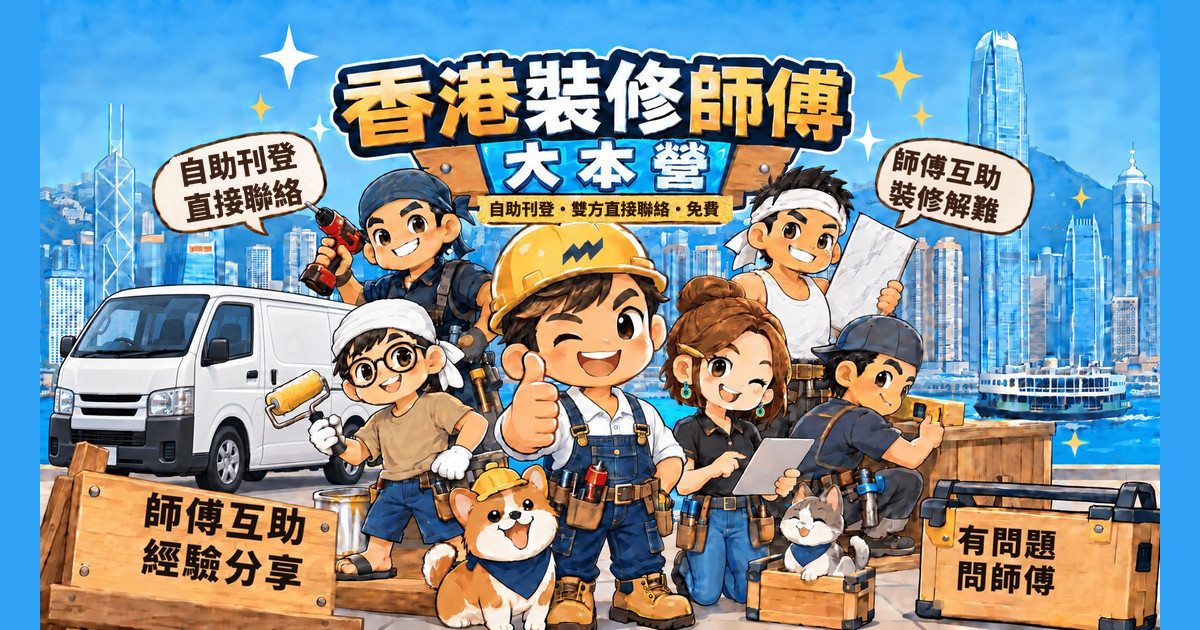
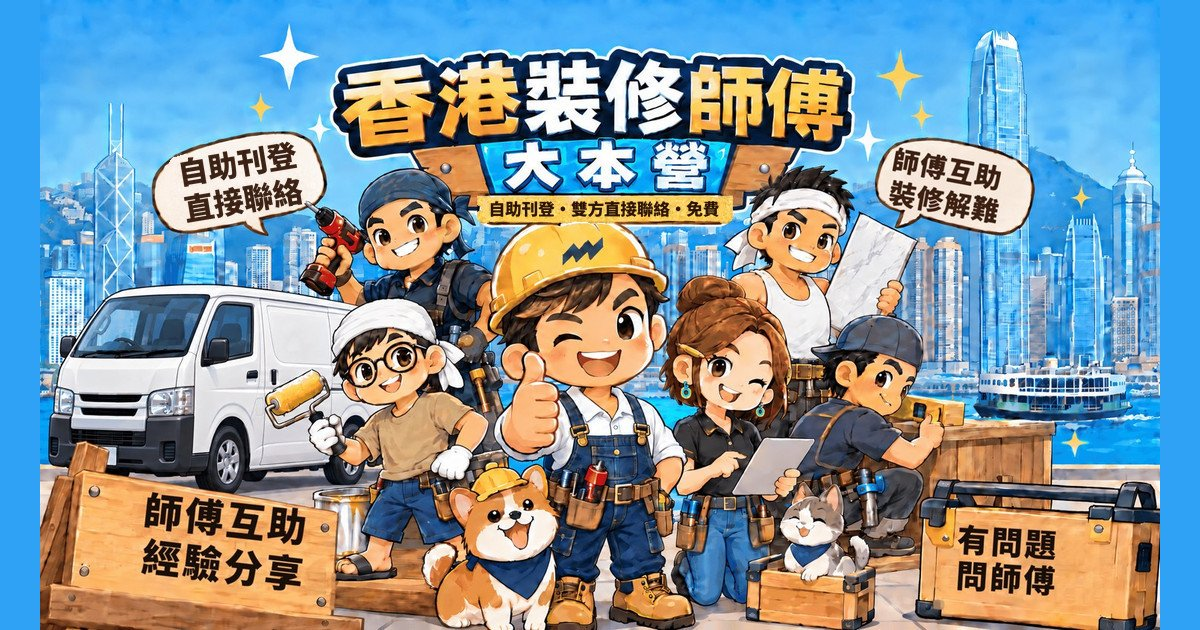
Update Hong Kong brand and WhatsApp groups

diff --git a/index.html b/index.html
@@ -3,8 +3,8 @@
 <head>
   <meta charset="utf-8">
   <meta name="viewport" content="width=device-width, initial-scale=1">
-  <title>搵工請人自助刊登｜裝修師傅互助大本營</title>
-  <meta name="description" content="裝修師傅互助大本營：師傅同判頭自行刊登搵工、請人資訊，雙方直接聯絡。大本營唔代人搵工、唔代人揀人、唔收費。">
+  <title>搵工請人自助刊登｜香港裝修師傅互助大本營</title>
+  <meta name="description" content="香港裝修師傅互助大本營：師傅同判頭自行刊登搵工、請人資訊，雙方直接聯絡。大本營唔代人搵工、唔代人揀人、唔收費。">
   <meta name="theme-color" content="#17345c">
   <link rel="icon" type="image/svg+xml" href="favicon.svg">
   <link rel="apple-touch-icon" href="apple-touch-icon.png">
@@ -12,21 +12,21 @@
   <meta property="og:type" content="website">
   <meta property="og:url" content="https://jobs.renocamp.io/">
   <meta property="og:locale" content="zh_HK">
-  <meta property="og:site_name" content="裝修師傅互助大本營">
-  <meta property="og:title" content="搵工請人自助刊登｜裝修師傅互助大本營">
+  <meta property="og:site_name" content="香港裝修師傅互助大本營">
+  <meta property="og:title" content="搵工請人自助刊登｜香港裝修師傅互助大本營">
   <meta property="og:description" content="師傅同判頭自行刊登搵工、請人資訊，雙方直接聯絡。大本營唔代人搵工、唔代人揀人、唔收費。">
   <meta property="og:image" content="https://jobs.renocamp.io/assets/brand/og.jpg">
   <meta property="og:image:width" content="1200">
   <meta property="og:image:height" content="630">
   <meta name="twitter:card" content="summary_large_image">
-  <meta name="twitter:title" content="搵工請人自助刊登｜裝修師傅互助大本營">
+  <meta name="twitter:title" content="搵工請人自助刊登｜香港裝修師傅互助大本營">
   <meta name="twitter:description" content="師傅同判頭自行刊登搵工、請人資訊，雙方直接聯絡。大本營唔代人搵工、唔代人揀人、唔收費。">
   <meta name="twitter:image" content="https://jobs.renocamp.io/assets/brand/og.jpg">
   <link rel="preconnect" href="https://fonts.googleapis.com">
   <link rel="preconnect" href="https://fonts.gstatic.com" crossorigin>
   <link rel="stylesheet" href="https://fonts.googleapis.com/css2?family=Noto+Sans+HK:wght@400;500;700;900&display=swap">
-  <link rel="preload" as="image" href="assets/thumbs/hero-800.jpg" imagesrcset="assets/thumbs/hero-800.jpg 800w, assets/brand/hero.jpg 1500w" imagesizes="(min-width: 1180px) 1120px, 100vw">
-  <link rel="stylesheet" href="css/style.css?v=20261003b">
+  <link rel="preload" as="image" href="assets/thumbs/hero-800.webp" imagesrcset="assets/thumbs/hero-800.webp 800w, assets/brand/hero.webp 1500w" imagesizes="(min-width: 1180px) 1120px, 100vw">
+  <link rel="stylesheet" href="css/style.css?v=20261005b">
   <script src="js/config.js" defer></script>
   <script src="js/main.js" defer></script>
 </head>
@@ -35,7 +35,7 @@
 <div id="top">
   <header class="site-header">
     <div class="wrap header-row">
-      <a href="#top" class="brand"><img src="assets/thumbs/mark-128.jpg" alt="" width="40" height="40"><span>互助大本營</span></a>
+      <a href="#top" class="brand"><img src="assets/thumbs/mark-128.webp" alt="" width="40" height="40"><span>香港裝修師傅互助大本營</span></a>
       <nav class="nav" aria-label="主選單">
         <a href="#post">刊登</a>
         <a href="#groups">工種</a>
@@ -50,7 +50,7 @@
     <section class="hero">
       <div class="wrap">
         <figure class="hero-fig">
-          <img src="assets/thumbs/hero-800.jpg" srcset="assets/thumbs/hero-800.jpg 800w, assets/brand/hero.jpg 1500w" sizes="(min-width: 1180px) 1120px, 100vw" alt="香港裝修師傅大本營橫幅插圖（AI 生成）" width="1500" height="844" fetchpriority="high">
+          <img src="assets/thumbs/hero-800.webp" srcset="assets/thumbs/hero-800.webp 800w, assets/brand/hero.webp 1500w" sizes="(min-width: 1180px) 1120px, 100vw" alt="香港裝修師傅大本營橫幅插圖（AI 生成）" width="1500" height="844" fetchpriority="high">
         </figure>
         <p class="hero-tag">師傅互助 · 經驗分享 · 有問題問師傅</p>
         <p class="ai-note ai-note--dark">（圖片由 AI 生成，僅作示意）</p>
@@ -59,10 +59,10 @@
 
     <section class="wrap intro-wrap">
       <div class="intro">
-        <img class="intro-avatar" src="assets/thumbs/hub.jpg" srcset="assets/thumbs/hub.jpg 320w, assets/zones/hub.jpg 900w" sizes="176px" alt="裝修師傅互助大本營 WhatsApp 社群頭像" width="176" height="176">
+        <img class="intro-avatar" src="assets/thumbs/hub.webp" srcset="assets/thumbs/hub.webp 320w, assets/zones/hub.jpg 900w" sizes="176px" alt="香港裝修師傅互助大本營 WhatsApp 社群頭像" width="176" height="176">
         <div>
           <p class="display">獅子山精神</p>
-          <h1>裝修師傅互助<br>大本營</h1>
+          <h1>香港裝修師傅<br>互助大本營</h1>
           <p class="intro-kicker">自己刊登 · 直接聯絡 · 唔收費</p>
           <p class="intro-text">師傅自己人嘅交流地方。搵工、請人資訊由你自己刊登，聯絡方法由你自己揀，條件由雙方自己傾。大本營唔代人搵工、唔代人揀人、唔收費。</p>
         </div>
@@ -172,23 +172,23 @@
         <button type="button" class="chip" data-filter="ops" aria-pressed="false">雜工判頭</button>
       </div>
       <ul class="trade-grid" id="trade-grid">
-          <li data-lane="build"><button type="button" class="card trade" data-full="assets/badges/demo.jpg" data-title="清拆" data-caption="清拆、打鑿、清場，開工第一步。" data-round="1"><img src="assets/thumbs/demo.jpg" alt="清拆群組圓章頭像" width="128" height="128" loading="lazy" decoding="async"><span class="trade-name">清拆</span><span class="trade-blurb">清拆、打鑿、清場，開工第一步。</span></button></li>
-          <li data-lane="build"><button type="button" class="card trade" data-full="assets/badges/mason.jpg" data-title="泥水" data-caption="批盪、鋪磚、石屎修補。" data-round="1"><img src="assets/thumbs/mason.jpg" alt="泥水群組圓章頭像" width="128" height="128" loading="lazy" decoding="async"><span class="trade-name">泥水</span><span class="trade-blurb">批盪、鋪磚、石屎修補。</span></button></li>
-          <li data-lane="build"><button type="button" class="card trade" data-full="assets/badges/wood.jpg" data-title="木工" data-caption="木作、板材、現場木工。" data-round="1"><img src="assets/thumbs/wood.jpg" alt="木工群組圓章頭像" width="128" height="128" loading="lazy" decoding="async"><span class="trade-name">木工</span><span class="trade-blurb">木作、板材、現場木工。</span></button></li>
-          <li data-lane="build"><button type="button" class="card trade" data-full="assets/badges/fitout.jpg" data-title="傢俬組裝" data-caption="傢俬組裝同現場安裝。" data-round="1"><img src="assets/thumbs/fitout.jpg" alt="傢俬組裝群組圓章頭像" width="128" height="128" loading="lazy" decoding="async"><span class="trade-name">傢俬組裝</span><span class="trade-blurb">傢俬組裝同現場安裝。</span></button></li>
-          <li data-lane="finish"><button type="button" class="card trade" data-full="assets/badges/floor.jpg" data-title="木地板" data-caption="木地板鋪設同翻新。" data-round="1"><img src="assets/thumbs/floor.jpg" alt="木地板群組圓章頭像" width="128" height="128" loading="lazy" decoding="async"><span class="trade-name">木地板</span><span class="trade-blurb">木地板鋪設同翻新。</span></button></li>
-          <li data-lane="finish"><button type="button" class="card trade" data-full="assets/badges/marble.jpg" data-title="雲石" data-caption="雲石、石材加工同安裝。" data-round="1"><img src="assets/thumbs/marble.jpg" alt="雲石群組圓章頭像" width="128" height="128" loading="lazy" decoding="async"><span class="trade-name">雲石</span><span class="trade-blurb">雲石、石材加工同安裝。</span></button></li>
-          <li data-lane="finish"><button type="button" class="card trade" data-full="assets/badges/paint.jpg" data-title="油漆" data-caption="牆身、油漆、翻新。" data-round="1"><img src="assets/thumbs/paint.jpg" alt="油漆群組圓章頭像" width="128" height="128" loading="lazy" decoding="async"><span class="trade-name">油漆</span><span class="trade-blurb">牆身、油漆、翻新。</span></button></li>
-          <li data-lane="finish"><button type="button" class="card trade" data-full="assets/badges/glass.jpg" data-title="玻璃" data-caption="玻璃、鏡、浴屏。" data-round="1"><img src="assets/thumbs/glass.jpg" alt="玻璃群組圓章頭像" width="128" height="128" loading="lazy" decoding="async"><span class="trade-name">玻璃</span><span class="trade-blurb">玻璃、鏡、浴屏。</span></button></li>
-          <li data-lane="mep"><button type="button" class="card trade" data-full="assets/badges/elec.jpg" data-title="電工" data-caption="電力、燈位工程（固定電力裝置嘅電力工作須由相應級別註冊電業工程人員進行）。" data-round="1"><img src="assets/thumbs/elec.jpg" alt="電工群組圓章頭像" width="128" height="128" loading="lazy" decoding="async"><span class="trade-name">電工</span><span class="trade-blurb">電力、燈位工程（固定電力裝置嘅電力工作須由相應級別註冊電業工程人員進行）。</span></button></li>
-          <li data-lane="mep"><button type="button" class="card trade" data-full="assets/badges/plumb.jpg" data-title="水喉" data-caption="水喉、去水、潔具接駁（指定水喉工程須由持牌水喉匠或其他合資格人士進行）。" data-round="1"><img src="assets/thumbs/plumb.jpg" alt="水喉群組圓章頭像" width="128" height="128" loading="lazy" decoding="async"><span class="trade-name">水喉</span><span class="trade-blurb">水喉、去水、潔具接駁（指定水喉工程須由持牌水喉匠或其他合資格人士進行）。</span></button></li>
-          <li data-lane="mep"><button type="button" class="card trade" data-full="assets/badges/ac.jpg" data-title="冷氣" data-caption="冷氣安裝同維修（安裝冷氣機支架可能屬小型工程，須由合資格人士進行）。" data-round="1"><img src="assets/thumbs/ac.jpg" alt="冷氣群組圓章頭像" width="128" height="128" loading="lazy" decoding="async"><span class="trade-name">冷氣</span><span class="trade-blurb">冷氣安裝同維修（安裝冷氣機支架可能屬小型工程，須由合資格人士進行）。</span></button></li>
-          <li data-lane="mep"><button type="button" class="card trade" data-full="assets/badges/window.jpg" data-title="鋁窗" data-caption="鋁窗、窗框工程（更換窗戶一般屬小型工程，須由註冊小型工程承建商進行）。" data-round="1"><img src="assets/thumbs/window.jpg" alt="鋁窗群組圓章頭像" width="128" height="128" loading="lazy" decoding="async"><span class="trade-name">鋁窗</span><span class="trade-blurb">鋁窗、窗框工程（更換窗戶一般屬小型工程，須由註冊小型工程承建商進行）。</span></button></li>
-          <li data-lane="ops"><button type="button" class="card trade" data-full="assets/badges/labour.jpg" data-title="雜工" data-caption="雜工、搬運同現場幫手。" data-round="1"><img src="assets/thumbs/labour.jpg" alt="雜工群組圓章頭像" width="128" height="128" loading="lazy" decoding="async"><span class="trade-name">雜工</span><span class="trade-blurb">雜工、搬運同現場幫手。</span></button></li>
-          <li data-lane="ops"><button type="button" class="card trade" data-full="assets/badges/transport.jpg" data-title="搬運" data-caption="材料同垃圾運輸。" data-round="1"><img src="assets/thumbs/transport.jpg" alt="搬運群組圓章頭像" width="128" height="128" loading="lazy" decoding="async"><span class="trade-name">搬運</span><span class="trade-blurb">材料同垃圾運輸。</span></button></li>
-          <li data-lane="ops"><button type="button" class="card trade" data-full="assets/badges/clean.jpg" data-title="清潔" data-caption="完工清潔、入伙前大掃除。" data-round="1"><img src="assets/thumbs/clean.jpg" alt="清潔群組圓章頭像" width="128" height="128" loading="lazy" decoding="async"><span class="trade-name">清潔</span><span class="trade-blurb">完工清潔、入伙前大掃除。</span></button></li>
-          <li data-lane="ops"><button type="button" class="card trade" data-full="assets/badges/home.jpg" data-title="家居維修" data-caption="家居小型維修（涉及電力、水喉或小型工程，須由合資格人士進行）。" data-round="1"><img src="assets/thumbs/home.jpg" alt="家居維修群組圓章頭像" width="128" height="128" loading="lazy" decoding="async"><span class="trade-name">家居維修</span><span class="trade-blurb">家居小型維修（涉及電力、水喉或小型工程，須由合資格人士進行）。</span></button></li>
-          <li data-lane="ops"><button type="button" class="card trade" data-full="assets/badges/foreman.jpg" data-title="判頭" data-caption="判頭交流、行內資訊。" data-round="1"><img src="assets/thumbs/foreman.jpg" alt="判頭群組圓章頭像" width="128" height="128" loading="lazy" decoding="async"><span class="trade-name">判頭</span><span class="trade-blurb">判頭交流、行內資訊。</span></button></li>
+          <li data-lane="build"><button type="button" class="card trade" data-full="assets/badges/demo.webp" data-title="清拆" data-caption="清拆、打鑿、清場，開工第一步。" data-round="1"><img src="assets/thumbs/demo.webp" alt="清拆群組圓章頭像" width="128" height="128" loading="lazy" decoding="async"><span class="trade-name">清拆</span><span class="trade-blurb">清拆、打鑿、清場，開工第一步。</span></button></li>
+          <li data-lane="build"><button type="button" class="card trade" data-full="assets/badges/mason.webp" data-title="泥水" data-caption="批盪、鋪磚、石屎修補。" data-round="1"><img src="assets/thumbs/mason.webp" alt="泥水群組圓章頭像" width="128" height="128" loading="lazy" decoding="async"><span class="trade-name">泥水</span><span class="trade-blurb">批盪、鋪磚、石屎修補。</span></button></li>
+          <li data-lane="build"><button type="button" class="card trade" data-full="assets/badges/wood.webp" data-title="木工" data-caption="木作、板材、現場木工。" data-round="1"><img src="assets/thumbs/wood.webp" alt="木工群組圓章頭像" width="128" height="128" loading="lazy" decoding="async"><span class="trade-name">木工</span><span class="trade-blurb">木作、板材、現場木工。</span></button></li>
+          <li data-lane="build"><button type="button" class="card trade" data-full="assets/badges/fitout.webp" data-title="傢俬組裝" data-caption="傢俬組裝同現場安裝。" data-round="1"><img src="assets/thumbs/fitout.webp" alt="傢俬組裝群組圓章頭像" width="128" height="128" loading="lazy" decoding="async"><span class="trade-name">傢俬組裝</span><span class="trade-blurb">傢俬組裝同現場安裝。</span></button></li>
+          <li data-lane="finish"><button type="button" class="card trade" data-full="assets/badges/floor.webp" data-title="木地板" data-caption="木地板鋪設同翻新。" data-round="1"><img src="assets/thumbs/floor.webp" alt="木地板群組圓章頭像" width="128" height="128" loading="lazy" decoding="async"><span class="trade-name">木地板</span><span class="trade-blurb">木地板鋪設同翻新。</span></button></li>
+          <li data-lane="finish"><button type="button" class="card trade" data-full="assets/badges/marble.webp" data-title="雲石" data-caption="雲石、石材加工同安裝。" data-round="1"><img src="assets/thumbs/marble.webp" alt="雲石群組圓章頭像" width="128" height="128" loading="lazy" decoding="async"><span class="trade-name">雲石</span><span class="trade-blurb">雲石、石材加工同安裝。</span></button></li>
+          <li data-lane="finish"><button type="button" class="card trade" data-full="assets/badges/paint.webp" data-title="油漆" data-caption="牆身、油漆、翻新。" data-round="1"><img src="assets/thumbs/paint.webp" alt="油漆群組圓章頭像" width="128" height="128" loading="lazy" decoding="async"><span class="trade-name">油漆</span><span class="trade-blurb">牆身、油漆、翻新。</span></button></li>
+          <li data-lane="finish"><button type="button" class="card trade" data-full="assets/badges/glass.webp" data-title="玻璃" data-caption="玻璃、鏡、浴屏。" data-round="1"><img src="assets/thumbs/glass.webp" alt="玻璃群組圓章頭像" width="128" height="128" loading="lazy" decoding="async"><span class="trade-name">玻璃</span><span class="trade-blurb">玻璃、鏡、浴屏。</span></button></li>
+          <li data-lane="mep"><button type="button" class="card trade" data-full="assets/badges/elec.webp" data-title="電工" data-caption="電力、燈位工程（固定電力裝置嘅電力工作須由相應級別註冊電業工程人員進行）。" data-round="1"><img src="assets/thumbs/elec.webp" alt="電工群組圓章頭像" width="128" height="128" loading="lazy" decoding="async"><span class="trade-name">電工</span><span class="trade-blurb">電力、燈位工程（固定電力裝置嘅電力工作須由相應級別註冊電業工程人員進行）。</span></button></li>
+          <li data-lane="mep"><button type="button" class="card trade" data-full="assets/badges/plumb.webp" data-title="水喉" data-caption="水喉、去水、潔具接駁（指定水喉工程須由持牌水喉匠或其他合資格人士進行）。" data-round="1"><img src="assets/thumbs/plumb.webp" alt="水喉群組圓章頭像" width="128" height="128" loading="lazy" decoding="async"><span class="trade-name">水喉</span><span class="trade-blurb">水喉、去水、潔具接駁（指定水喉工程須由持牌水喉匠或其他合資格人士進行）。</span></button></li>
+          <li data-lane="mep"><button type="button" class="card trade" data-full="assets/badges/ac.webp" data-title="冷氣" data-caption="冷氣安裝同維修（安裝冷氣機支架可能屬小型工程，須由合資格人士進行）。" data-round="1"><img src="assets/thumbs/ac.webp" alt="冷氣群組圓章頭像" width="128" height="128" loading="lazy" decoding="async"><span class="trade-name">冷氣</span><span class="trade-blurb">冷氣安裝同維修（安裝冷氣機支架可能屬小型工程，須由合資格人士進行）。</span></button></li>
+          <li data-lane="mep"><button type="button" class="card trade" data-full="assets/badges/window.webp" data-title="鋁窗" data-caption="鋁窗、窗框工程（更換窗戶一般屬小型工程，須由註冊小型工程承建商進行）。" data-round="1"><img src="assets/thumbs/window.webp" alt="鋁窗群組圓章頭像" width="128" height="128" loading="lazy" decoding="async"><span class="trade-name">鋁窗</span><span class="trade-blurb">鋁窗、窗框工程（更換窗戶一般屬小型工程，須由註冊小型工程承建商進行）。</span></button></li>
+          <li data-lane="ops"><button type="button" class="card trade" data-full="assets/badges/labour.webp" data-title="雜工" data-caption="雜工、搬運同現場幫手。" data-round="1"><img src="assets/thumbs/labour.webp" alt="雜工群組圓章頭像" width="128" height="128" loading="lazy" decoding="async"><span class="trade-name">雜工</span><span class="trade-blurb">雜工、搬運同現場幫手。</span></button></li>
+          <li data-lane="ops"><button type="button" class="card trade" data-full="assets/badges/transport.webp" data-title="搬運" data-caption="材料同垃圾運輸。" data-round="1"><img src="assets/thumbs/transport.webp" alt="搬運群組圓章頭像" width="128" height="128" loading="lazy" decoding="async"><span class="trade-name">搬運</span><span class="trade-blurb">材料同垃圾運輸。</span></button></li>
+          <li data-lane="ops"><button type="button" class="card trade" data-full="assets/badges/clean.webp" data-title="清潔" data-caption="完工清潔、入伙前大掃除。" data-round="1"><img src="assets/thumbs/clean.webp" alt="清潔群組圓章頭像" width="128" height="128" loading="lazy" decoding="async"><span class="trade-name">清潔</span><span class="trade-blurb">完工清潔、入伙前大掃除。</span></button></li>
+          <li data-lane="ops"><button type="button" class="card trade" data-full="assets/badges/home.webp" data-title="家居維修" data-caption="家居小型維修（涉及電力、水喉或小型工程，須由合資格人士進行）。" data-round="1"><img src="assets/thumbs/home.webp" alt="家居維修群組圓章頭像" width="128" height="128" loading="lazy" decoding="async"><span class="trade-name">家居維修</span><span class="trade-blurb">家居小型維修（涉及電力、水喉或小型工程，須由合資格人士進行）。</span></button></li>
+          <li data-lane="ops"><button type="button" class="card trade" data-full="assets/badges/foreman.webp" data-title="判頭" data-caption="判頭交流、行內資訊。" data-round="1"><img src="assets/thumbs/foreman.webp" alt="判頭群組圓章頭像" width="128" height="128" loading="lazy" decoding="async"><span class="trade-name">判頭</span><span class="trade-blurb">判頭交流、行內資訊。</span></button></li>
         </ul>
       <p class="ai-note">（圖片由 AI 生成，僅作示意）</p>
     </section>
@@ -198,14 +198,14 @@
         <div class="sec-head sec-head--light">
           <p class="kicker">社群分區</p>
           <h2>一個營，五個位</h2>
-          <p>總部、作品、物料、福利、疑難。頭像用大本營現成圓章。</p>
+          <p>主群、作品、買賣、福利、糾紛。撳任何分區即會直接開啟相應 WhatsApp 群組。</p>
         </div>
         <ul class="zone-grid">
-          <li><button type="button" class="zone" data-full="assets/zones/hub.jpg" data-title="WhatsApp 社群" data-caption="大本營總入口。各工種群組由呢度出發。" data-round="1"><img src="assets/thumbs/hub.jpg" alt="WhatsApp 社群分區圓章頭像" width="112" height="112" loading="lazy" decoding="async"><span class="zone-kicker">總部</span><span class="zone-name">WhatsApp 社群</span><span class="zone-blurb">大本營總入口。各工種群組由呢度出發。</span></button></li>
-          <li><button type="button" class="zone" data-full="assets/zones/show.jpg" data-title="作品展示" data-caption="師傅分享完成作品。貼相前請先得業主同意，並遮蓋門牌、地址、人樣同文件。" data-round="1"><img src="assets/thumbs/show.jpg" alt="作品展示分區圓章頭像" width="112" height="112" loading="lazy" decoding="async"><span class="zone-kicker">作品</span><span class="zone-name">作品展示</span><span class="zone-blurb">師傅分享完成作品。貼相前請先得業主同意，並遮蓋門牌、地址、人樣同文件。</span></button></li>
-          <li><button type="button" class="zone" data-full="assets/zones/trade.jpg" data-title="物料買賣" data-caption="瓷磚、牆紙、乳膠漆、五金、木材板材。" data-round="1"><img src="assets/thumbs/trade.jpg" alt="物料買賣分區圓章頭像" width="112" height="112" loading="lazy" decoding="async"><span class="zone-kicker">物料</span><span class="zone-name">物料買賣</span><span class="zone-blurb">瓷磚、牆紙、乳膠漆、五金、木材板材。</span></button></li>
-          <li><button type="button" class="zone" data-full="assets/zones/perk.jpg" data-title="福利區" data-caption="行內優惠同最新資訊分享。" data-round="1"><img src="assets/thumbs/perk.jpg" alt="福利區分區圓章頭像" width="112" height="112" loading="lazy" decoding="async"><span class="zone-kicker">行內</span><span class="zone-name">福利區</span><span class="zone-blurb">行內優惠同最新資訊分享。</span></button></li>
-          <li><button type="button" class="zone" data-full="assets/zones/mediate.jpg" data-title="疑難求助" data-caption="裝修疑難交流、經驗分享，只供參考。唔好點名指控個別師傅、判頭或公司。" data-round="1"><img src="assets/thumbs/mediate.jpg" alt="疑難求助分區圓章頭像" width="112" height="112" loading="lazy" decoding="async"><span class="zone-kicker">求助</span><span class="zone-name">疑難求助</span><span class="zone-blurb">裝修疑難交流、經驗分享，只供參考。唔好點名指控個別師傅、判頭或公司。</span></button></li>
+          <li><a class="zone" href="https://chat.whatsapp.com/HuXijyZfyMIB0dIOgdgwVJ?s=cl&amp;p=i&amp;mlu=4&amp;ilr=4" target="_blank" rel="noopener noreferrer" aria-label="加入大本營主群組 WhatsApp 群組（新分頁）"><img src="assets/thumbs/hub.webp" alt="大本營主群組圓章頭像" width="112" height="112" loading="lazy" decoding="async"><span class="zone-kicker">主群</span><span class="zone-name">大本營主群組</span><span class="zone-blurb">大本營總入口及行內交流。</span><span class="zone-cta">直接加入 WhatsApp 群組 ↗</span></a></li>
+          <li><a class="zone" href="https://chat.whatsapp.com/BiXq3vfTmw9LHbPyoPTeFw?s=cl&amp;p=i&amp;mlu=4&amp;ilr=4" target="_blank" rel="noopener noreferrer" aria-label="加入精美作品展覽 WhatsApp 群組（新分頁）"><img src="assets/thumbs/show.webp" alt="精美作品展覽圓章頭像" width="112" height="112" loading="lazy" decoding="async"><span class="zone-kicker">作品</span><span class="zone-name">精美作品展覽</span><span class="zone-blurb">師傅分享完成作品；貼相前請先得業主同意。</span><span class="zone-cta">直接加入 WhatsApp 群組 ↗</span></a></li>
+          <li><a class="zone" href="https://chat.whatsapp.com/Dnz3uNMhcHlK5hsQvAfxw9?s=cl&amp;p=i&amp;mlu=4&amp;ilr=4" target="_blank" rel="noopener noreferrer" aria-label="加入物料買賣專區 WhatsApp 群組（新分頁）"><img src="assets/thumbs/trade.webp" alt="物料買賣專區圓章頭像" width="112" height="112" loading="lazy" decoding="async"><span class="zone-kicker">買賣</span><span class="zone-name">物料買賣專區</span><span class="zone-blurb">瓷磚、牆紙、乳膠漆、五金、木材板材。</span><span class="zone-cta">直接加入 WhatsApp 群組 ↗</span></a></li>
+          <li><a class="zone" href="https://chat.whatsapp.com/BBDipnb4eMi1jbrYlANdFc?s=cl&amp;p=i&amp;mlu=4&amp;ilr=4" target="_blank" rel="noopener noreferrer" aria-label="加入裝修佬福利區 WhatsApp 群組（新分頁）"><img src="assets/thumbs/perk.webp" alt="裝修佬福利區圓章頭像" width="112" height="112" loading="lazy" decoding="async"><span class="zone-kicker">福利</span><span class="zone-name">裝修佬福利區</span><span class="zone-blurb">行內優惠同最新資訊分享。</span><span class="zone-cta">直接加入 WhatsApp 群組 ↗</span></a></li>
+          <li><a class="zone" href="https://chat.whatsapp.com/CYMPVygVuP6JRsD6Y5cOC3?s=cl&amp;p=i&amp;mlu=4&amp;ilr=4" target="_blank" rel="noopener noreferrer" aria-label="加入裝修糾紛討論 WhatsApp 群組（新分頁）"><img src="assets/thumbs/mediate.webp" alt="裝修糾紛討論圓章頭像" width="112" height="112" loading="lazy" decoding="async"><span class="zone-kicker">糾紛</span><span class="zone-name">裝修糾紛討論</span><span class="zone-blurb">裝修疑難交流及經驗分享，只供參考。</span><span class="zone-cta">直接加入 WhatsApp 群組 ↗</span></a></li>
         </ul>
         <p class="ai-note ai-note--dark">（圖片由 AI 生成，僅作示意）</p>
       </div>
@@ -219,10 +219,10 @@
           <p>大本營畫過嘅背景稿。撳開可以睇大圖。</p>
         </div>
         <ul class="gallery-grid">
-          <li><button type="button" class="shot" data-full="assets/gallery/p-7394.jpg" data-title="師傅團結就係力量" data-caption="用心做好每一個細節"><span class="shot-img"><img src="assets/thumbs/p-7394.jpg" alt="師傅團結就係力量（AI 生成插圖）" width="600" height="600" loading="lazy" decoding="async"></span><span class="shot-text"><span class="shot-title">師傅團結就係力量</span><span class="shot-cap">用心做好每一個細節</span></span></button></li>
-          <li><button type="button" class="shot" data-full="assets/gallery/p-7393.jpg" data-title="獅子山精神" data-caption="吃得苦，敢擔當"><span class="shot-img"><img src="assets/thumbs/p-7393.jpg" alt="獅子山精神（AI 生成插圖）" width="600" height="600" loading="lazy" decoding="async"></span><span class="shot-text"><span class="shot-title">獅子山精神</span><span class="shot-cap">吃得苦，敢擔當</span></span></button></li>
-          <li><button type="button" class="shot" data-full="assets/gallery/p-7392.jpg" data-title="收工茶敘" data-caption="收工飲杯茶，傾下行內事"><span class="shot-img"><img src="assets/thumbs/p-7392.jpg" alt="收工茶敘（AI 生成插圖）" width="600" height="600" loading="lazy" decoding="async"></span><span class="shot-text"><span class="shot-title">收工茶敘</span><span class="shot-cap">收工飲杯茶，傾下行內事</span></span></button></li>
-          <li><button type="button" class="shot" data-full="assets/gallery/p-7358.jpg" data-title="齊心開工" data-caption="各工種一齊上"><span class="shot-img"><img src="assets/thumbs/p-7358.jpg" alt="齊心開工（AI 生成插圖）" width="600" height="600" loading="lazy" decoding="async"></span><span class="shot-text"><span class="shot-title">齊心開工</span><span class="shot-cap">各工種一齊上</span></span></button></li>
+          <li><button type="button" class="shot" data-full="assets/gallery/p-7394.webp" data-title="師傅團結就係力量" data-caption="用心做好每一個細節"><span class="shot-img"><img src="assets/thumbs/p-7394.webp" alt="師傅團結就係力量（AI 生成插圖）" width="600" height="600" loading="lazy" decoding="async"></span><span class="shot-text"><span class="shot-title">師傅團結就係力量</span><span class="shot-cap">用心做好每一個細節</span></span></button></li>
+          <li><button type="button" class="shot" data-full="assets/gallery/p-7393.webp" data-title="獅子山精神" data-caption="吃得苦，敢擔當"><span class="shot-img"><img src="assets/thumbs/p-7393.webp" alt="獅子山精神（AI 生成插圖）" width="600" height="600" loading="lazy" decoding="async"></span><span class="shot-text"><span class="shot-title">獅子山精神</span><span class="shot-cap">吃得苦，敢擔當</span></span></button></li>
+          <li><button type="button" class="shot" data-full="assets/gallery/p-7392.webp" data-title="收工茶敘" data-caption="收工飲杯茶，傾下行內事"><span class="shot-img"><img src="assets/thumbs/p-7392.webp" alt="收工茶敘（AI 生成插圖）" width="600" height="600" loading="lazy" decoding="async"></span><span class="shot-text"><span class="shot-title">收工茶敘</span><span class="shot-cap">收工飲杯茶，傾下行內事</span></span></button></li>
+          <li><button type="button" class="shot" data-full="assets/gallery/p-7358.webp" data-title="齊心開工" data-caption="各工種一齊上"><span class="shot-img"><img src="assets/thumbs/p-7358.webp" alt="齊心開工（AI 生成插圖）" width="600" height="600" loading="lazy" decoding="async"></span><span class="shot-text"><span class="shot-title">齊心開工</span><span class="shot-cap">各工種一齊上</span></span></button></li>
         </ul>
         <p class="ai-note">（圖片由 AI 生成，僅作示意）</p>
       </div>
@@ -249,9 +249,9 @@
   <footer class="site-footer">
     <div class="wrap footer-grid">
       <div class="footer-brand">
-        <img src="assets/thumbs/mark-128.jpg" alt="" width="48" height="48" loading="lazy">
+        <img src="assets/thumbs/mark-128.webp" alt="" width="48" height="48" loading="lazy">
         <div>
-          <p class="footer-name">裝修師傅互助大本營</p>
+          <p class="footer-name">香港裝修師傅互助大本營</p>
           <p>吃得苦，敢擔當。</p>
         </div>
       </div>
@@ -260,7 +260,7 @@
         <p>WhatsApp：<a data-wa="general" href="https://wa.me/85261791102" target="_blank" rel="noopener">6179 1102</a> ・ 電郵：<a href="mailto:info@pbc.ltd">info@pbc.ltd</a></p>
         <p><a href="privacy.html">私隱政策及收集個人資料聲明</a> ・ <a href="terms.html">使用條款及免責聲明</a></p>
         <p><a data-cfg-href="channelUrl" href="https://whatsapp.com/channel/0029Vb9TRu9HrDZgRprAdf1c" target="_blank" rel="noopener">追蹤大本營 WhatsApp 頻道</a></p>
-        <p>頭像同背景沿用大本營現成素材（插圖由 AI 生成，只作示意，唔代表真實人物或服務）。群組連結唔喺呢頁公開。</p>
+        <p>頭像同背景沿用大本營現成素材（插圖由 AI 生成，只作示意，唔代表真實人物或服務）。社群分區內嘅連結會直接開啟相應 WhatsApp 群組；加入後請遵守群組規則。</p>
         <p class="disclaimer">大本營只提供交流及刊登平台，唔係任何一方嘅僱主、承判商或代理人，亦唔會核實帖文內容、證件、手藝或付款能力。僱傭或判工條件、工資、保險及工地安全由雙方自行協定及負責；雙方之間嘅糾紛，大本營唔承擔責任（法律唔准豁免嘅責任除外）。內容只供參考，實際工程請按現場情況及向合資格人士查詢。詳見<a href="terms.html">使用條款</a>。</p>
       </div>
     </div>

diff --git a/terms.html b/terms.html
@@ -3,8 +3,8 @@
 <head>
   <meta charset="utf-8">
   <meta name="viewport" content="width=device-width, initial-scale=1">
-  <title>使用條款及免責聲明｜裝修師傅互助大本營</title>
-  <meta name="description" content="裝修師傅互助大本營使用條款及免責聲明：平台性質、刊登規則、帖文未經核實、雙方自行負責。">
+  <title>使用條款及免責聲明｜香港裝修師傅互助大本營</title>
+  <meta name="description" content="香港裝修師傅互助大本營使用條款及免責聲明：平台性質、刊登規則、帖文未經核實、雙方自行負責。">
   <meta name="theme-color" content="#17345c">
   <link rel="icon" type="image/svg+xml" href="favicon.svg">
   <link rel="apple-touch-icon" href="apple-touch-icon.png">
@@ -12,7 +12,7 @@
   <link rel="preconnect" href="https://fonts.googleapis.com">
   <link rel="preconnect" href="https://fonts.gstatic.com" crossorigin>
   <link rel="stylesheet" href="https://fonts.googleapis.com/css2?family=Noto+Sans+HK:wght@400;500;700;900&display=swap">
-  <link rel="stylesheet" href="css/style.css">
+  <link rel="stylesheet" href="css/style.css?v=20261005b">
   <script src="js/config.js" defer></script>
   <script src="js/main.js" defer></script>
 </head>
@@ -20,7 +20,7 @@
 <div id="top">
   <header class="site-header">
     <div class="wrap header-row">
-      <a href="index.html" class="brand"><img src="assets/thumbs/mark-128.jpg" alt="" width="40" height="40"><span>互助大本營</span></a>
+      <a href="index.html" class="brand"><img src="assets/thumbs/mark-128.webp" alt="" width="40" height="40"><span>香港裝修師傅互助大本營</span></a>
       <nav class="nav" aria-label="主選單">
         <a href="index.html#post">刊登</a>
         <a href="privacy.html">私隱</a>
@@ -34,7 +34,7 @@
     <p class="doc-meta">最後更新：5/10/2026</p>
 
     <h2>1. 大本營係咩</h2>
-    <p>裝修師傅互助大本營（下稱「大本營」或「我哋」）只提供交流及刊登平台。師傅同判頭自行刊登搵工、請人資訊，雙方直接聯絡。大本營唔代人搵工、唔代人揀人、唔收費。</p>
+    <p>香港裝修師傅互助大本營（下稱「大本營」或「我哋」）只提供交流及刊登平台。師傅同判頭自行刊登搵工、請人資訊，雙方直接聯絡。大本營唔代人搵工、唔代人揀人、唔收費。</p>
     <p>大本營唔係任何一方嘅僱主、承判商或代理人，亦唔會透過本網站或大本營群組承接或提供任何裝修工程服務。</p>
 
     <h2>2. 帖文內容未經核實</h2>
@@ -80,7 +80,7 @@
     <p>大本營可能不時修改本條款，修改後會喺呢頁公布。本條款受香港特別行政區法律管轄。</p>
 
     <h2>10. 聯絡</h2>
-    <p>裝修師傅互助大本營 ・ WhatsApp：<a data-wa="general" href="https://wa.me/85261791102" target="_blank" rel="noopener">6179 1102</a> ・ 電郵：<a href="mailto:info@pbc.ltd">info@pbc.ltd</a></p>
+    <p>香港裝修師傅互助大本營 ・ WhatsApp：<a data-wa="general" href="https://wa.me/85261791102" target="_blank" rel="noopener">6179 1102</a> ・ 電郵：<a href="mailto:info@pbc.ltd">info@pbc.ltd</a></p>
 
     <a class="btn btn-yellow doc-back" href="index.html">返大本營首頁</a>
   </main>
@@ -88,9 +88,9 @@
   <footer class="site-footer">
     <div class="wrap footer-grid">
       <div class="footer-brand">
-        <img src="assets/thumbs/mark-128.jpg" alt="" width="48" height="48" loading="lazy">
+        <img src="assets/thumbs/mark-128.webp" alt="" width="48" height="48" loading="lazy">
         <div>
-          <p class="footer-name">裝修師傅互助大本營</p>
+          <p class="footer-name">香港裝修師傅互助大本營</p>
           <p>吃得苦，敢擔當。</p>
         </div>
       </div>
@@ -99,7 +99,7 @@
         <p>WhatsApp：<a data-wa="general" href="https://wa.me/85261791102" target="_blank" rel="noopener">6179 1102</a> ・ 電郵：<a href="mailto:info@pbc.ltd">info@pbc.ltd</a></p>
         <p><a href="privacy.html">私隱政策及收集個人資料聲明</a> ・ <a href="terms.html">使用條款及免責聲明</a></p>
         <p><a data-cfg-href="channelUrl" href="https://whatsapp.com/channel/0029Vb9TRu9HrDZgRprAdf1c" target="_blank" rel="noopener">追蹤大本營 WhatsApp 頻道</a></p>
-        <p>頭像同背景沿用大本營現成素材（插圖由 AI 生成，只作示意，唔代表真實人物或服務）。群組連結唔喺呢頁公開。</p>
+        <p>頭像同背景沿用大本營現成素材（插圖由 AI 生成，只作示意，唔代表真實人物或服務）。社群分區內嘅連結會直接開啟相應 WhatsApp 群組；加入後請遵守群組規則。</p>
         <p class="disclaimer">大本營只提供交流及刊登平台，唔係任何一方嘅僱主、承判商或代理人，亦唔會核實帖文內容、證件、手藝或付款能力。僱傭或判工條件、工資、保險及工地安全由雙方自行協定及負責；雙方之間嘅糾紛，大本營唔承擔責任（法律唔准豁免嘅責任除外）。內容只供參考，實際工程請按現場情況及向合資格人士查詢。詳見<a href="terms.html">使用條款</a>。</p>
       </div>
     </div>

diff --git a/privacy.html b/privacy.html
@@ -3,8 +3,8 @@
 <head>
   <meta charset="utf-8">
   <meta name="viewport" content="width=device-width, initial-scale=1">
-  <title>私隱政策及收集個人資料聲明｜裝修師傅互助大本營</title>
-  <meta name="description" content="裝修師傅互助大本營私隱政策及收集個人資料聲明：收集咩資料、用途、公開範圍、轉移對象、保留期限同查閱改正方法。">
+  <title>私隱政策及收集個人資料聲明｜香港裝修師傅互助大本營</title>
+  <meta name="description" content="香港裝修師傅互助大本營私隱政策及收集個人資料聲明：收集咩資料、用途、公開範圍、轉移對象、保留期限同查閱改正方法。">
   <meta name="theme-color" content="#17345c">
   <link rel="icon" type="image/svg+xml" href="favicon.svg">
   <link rel="apple-touch-icon" href="apple-touch-icon.png">
@@ -12,7 +12,7 @@
   <link rel="preconnect" href="https://fonts.googleapis.com">
   <link rel="preconnect" href="https://fonts.gstatic.com" crossorigin>
   <link rel="stylesheet" href="https://fonts.googleapis.com/css2?family=Noto+Sans+HK:wght@400;500;700;900&display=swap">
-  <link rel="stylesheet" href="css/style.css">
+  <link rel="stylesheet" href="css/style.css?v=20261005b">
   <script src="js/config.js" defer></script>
   <script src="js/main.js" defer></script>
 </head>
@@ -20,7 +20,7 @@
 <div id="top">
   <header class="site-header">
     <div class="wrap header-row">
-      <a href="index.html" class="brand"><img src="assets/thumbs/mark-128.jpg" alt="" width="40" height="40"><span>互助大本營</span></a>
+      <a href="index.html" class="brand"><img src="assets/thumbs/mark-128.webp" alt="" width="40" height="40"><span>香港裝修師傅互助大本營</span></a>
       <nav class="nav" aria-label="主選單">
         <a href="index.html#post">刊登</a>
         <a href="privacy.html">私隱</a>
@@ -38,7 +38,7 @@
     </div>
 
     <h2>1. 資料使用者</h2>
-    <p>本網站、刊登表格同大本營 WhatsApp 社群由裝修師傅互助大本營（下稱「大本營」或「我哋」）營運。大本營係透過呢啲渠道收集個人資料嘅資料使用者。</p>
+    <p>本網站、刊登表格同大本營 WhatsApp 社群由香港裝修師傅互助大本營（下稱「大本營」或「我哋」）營運。大本營係透過呢啲渠道收集個人資料嘅資料使用者。</p>
 
     <h2>2. 我哋收集咩資料</h2>
     <ul>
@@ -105,9 +105,9 @@
   <footer class="site-footer">
     <div class="wrap footer-grid">
       <div class="footer-brand">
-        <img src="assets/thumbs/mark-128.jpg" alt="" width="48" height="48" loading="lazy">
+        <img src="assets/thumbs/mark-128.webp" alt="" width="48" height="48" loading="lazy">
         <div>
-          <p class="footer-name">裝修師傅互助大本營</p>
+          <p class="footer-name">香港裝修師傅互助大本營</p>
           <p>吃得苦，敢擔當。</p>
         </div>
       </div>
@@ -116,7 +116,7 @@
         <p>WhatsApp：<a data-wa="general" href="https://wa.me/85261791102" target="_blank" rel="noopener">6179 1102</a> ・ 電郵：<a href="mailto:info@pbc.ltd">info@pbc.ltd</a></p>
         <p><a href="privacy.html">私隱政策及收集個人資料聲明</a> ・ <a href="terms.html">使用條款及免責聲明</a></p>
         <p><a data-cfg-href="channelUrl" href="https://whatsapp.com/channel/0029Vb9TRu9HrDZgRprAdf1c" target="_blank" rel="noopener">追蹤大本營 WhatsApp 頻道</a></p>
-        <p>頭像同背景沿用大本營現成素材（插圖由 AI 生成，只作示意，唔代表真實人物或服務）。群組連結唔喺呢頁公開。</p>
+        <p>頭像同背景沿用大本營現成素材（插圖由 AI 生成，只作示意，唔代表真實人物或服務）。社群分區內嘅連結會直接開啟相應 WhatsApp 群組；加入後請遵守群組規則。</p>
         <p class="disclaimer">大本營只提供交流及刊登平台，唔係任何一方嘅僱主、承判商或代理人，亦唔會核實帖文內容、證件、手藝或付款能力。僱傭或判工條件、工資、保險及工地安全由雙方自行協定及負責；雙方之間嘅糾紛，大本營唔承擔責任（法律唔准豁免嘅責任除外）。內容只供參考，實際工程請按現場情況及向合資格人士查詢。詳見<a href="terms.html">使用條款</a>。</p>
       </div>
     </div>

diff --git a/css/style.css b/css/style.css
@@ -28,8 +28,8 @@ article[id]{scroll-margin-top:4.5rem}
 .header-row{display:flex;align-items:center;gap:.75rem;padding-top:.5rem;padding-bottom:.5rem}
 .brand{display:flex;align-items:center;gap:.5rem;min-height:2.75rem;text-decoration:none;flex-shrink:0}
 .brand img{width:2.5rem;height:2.5rem;border-radius:50%;object-fit:cover}
-.brand span{font-size:.875rem;font-weight:900;letter-spacing:.03em;color:var(--navy)}
-.nav{margin-left:auto;display:flex;gap:.125rem;overflow-x:auto;scrollbar-width:none}
+.brand span{max-width:9.5rem;font-size:.75rem;font-weight:900;line-height:1.25;letter-spacing:.02em;color:var(--navy)}
+.nav{min-width:0;margin-left:auto;display:flex;gap:.125rem;overflow-x:auto;scrollbar-width:none}
 .nav::-webkit-scrollbar{display:none}
 .nav a{display:inline-flex;align-items:center;min-height:2.75rem;padding:0 .6rem;font-size:.875rem;font-weight:700;color:var(--navy);text-decoration:none;white-space:nowrap;border-radius:.5rem}
 .nav a:hover{background:var(--sand)}
@@ -117,12 +117,14 @@ h1{margin-top:.25rem;font-size:2.25rem;font-weight:900;line-height:1.2;color:var
 /* Zones */
 .zones-sec{background:var(--navy);color:var(--cream);padding:2.5rem 0}
 .zone-grid{margin-top:1.5rem;display:grid;gap:1rem}
-.zone{display:flex;flex-direction:column;align-items:center;width:100%;height:100%;padding:1rem;text-align:center;background:var(--navy-deep);border:0;border-radius:var(--radius);color:var(--cream)}
+.zone{display:flex;flex-direction:column;align-items:center;width:100%;height:100%;padding:1rem;text-align:center;text-decoration:none;background:var(--navy-deep);border:0;border-radius:var(--radius);color:var(--cream)}
 .zone:hover{outline:2px solid var(--yellow)}
 .zone img{width:7rem;height:7rem;border-radius:50%;object-fit:cover}
 .zone-kicker{margin-top:.75rem;font-size:.75rem;font-weight:700;letter-spacing:.1em;color:var(--yellow)}
 .zone-name{margin-top:.25rem;font-size:1.125rem;font-weight:900}
 .zone-blurb{margin-top:.25rem;font-size:.875rem;line-height:1.4;color:var(--sand)}
+.zone-cta{display:inline-flex;align-items:center;justify-content:center;min-height:2.25rem;margin-top:.85rem;padding:0 .8rem;border:1px solid rgba(245,197,24,.7);border-radius:999px;color:var(--yellow);font-size:.78rem;font-weight:900;line-height:1.2}
+.zone:hover .zone-cta{background:var(--yellow);color:var(--navy-deep)}
 
 /* Gallery */
 .gallery-sec{background:rgba(244,230,204,.6);border-top:1px solid var(--line);padding:3rem 0}
@@ -221,3 +223,5 @@ h1{margin-top:.25rem;font-size:2.25rem;font-weight:900;line-height:1.2;color:var
     .match-card .card-note{align-self:stretch}
   }
 }
+
+@media (min-width:640px){.brand span{max-width:none;font-size:.875rem}}
